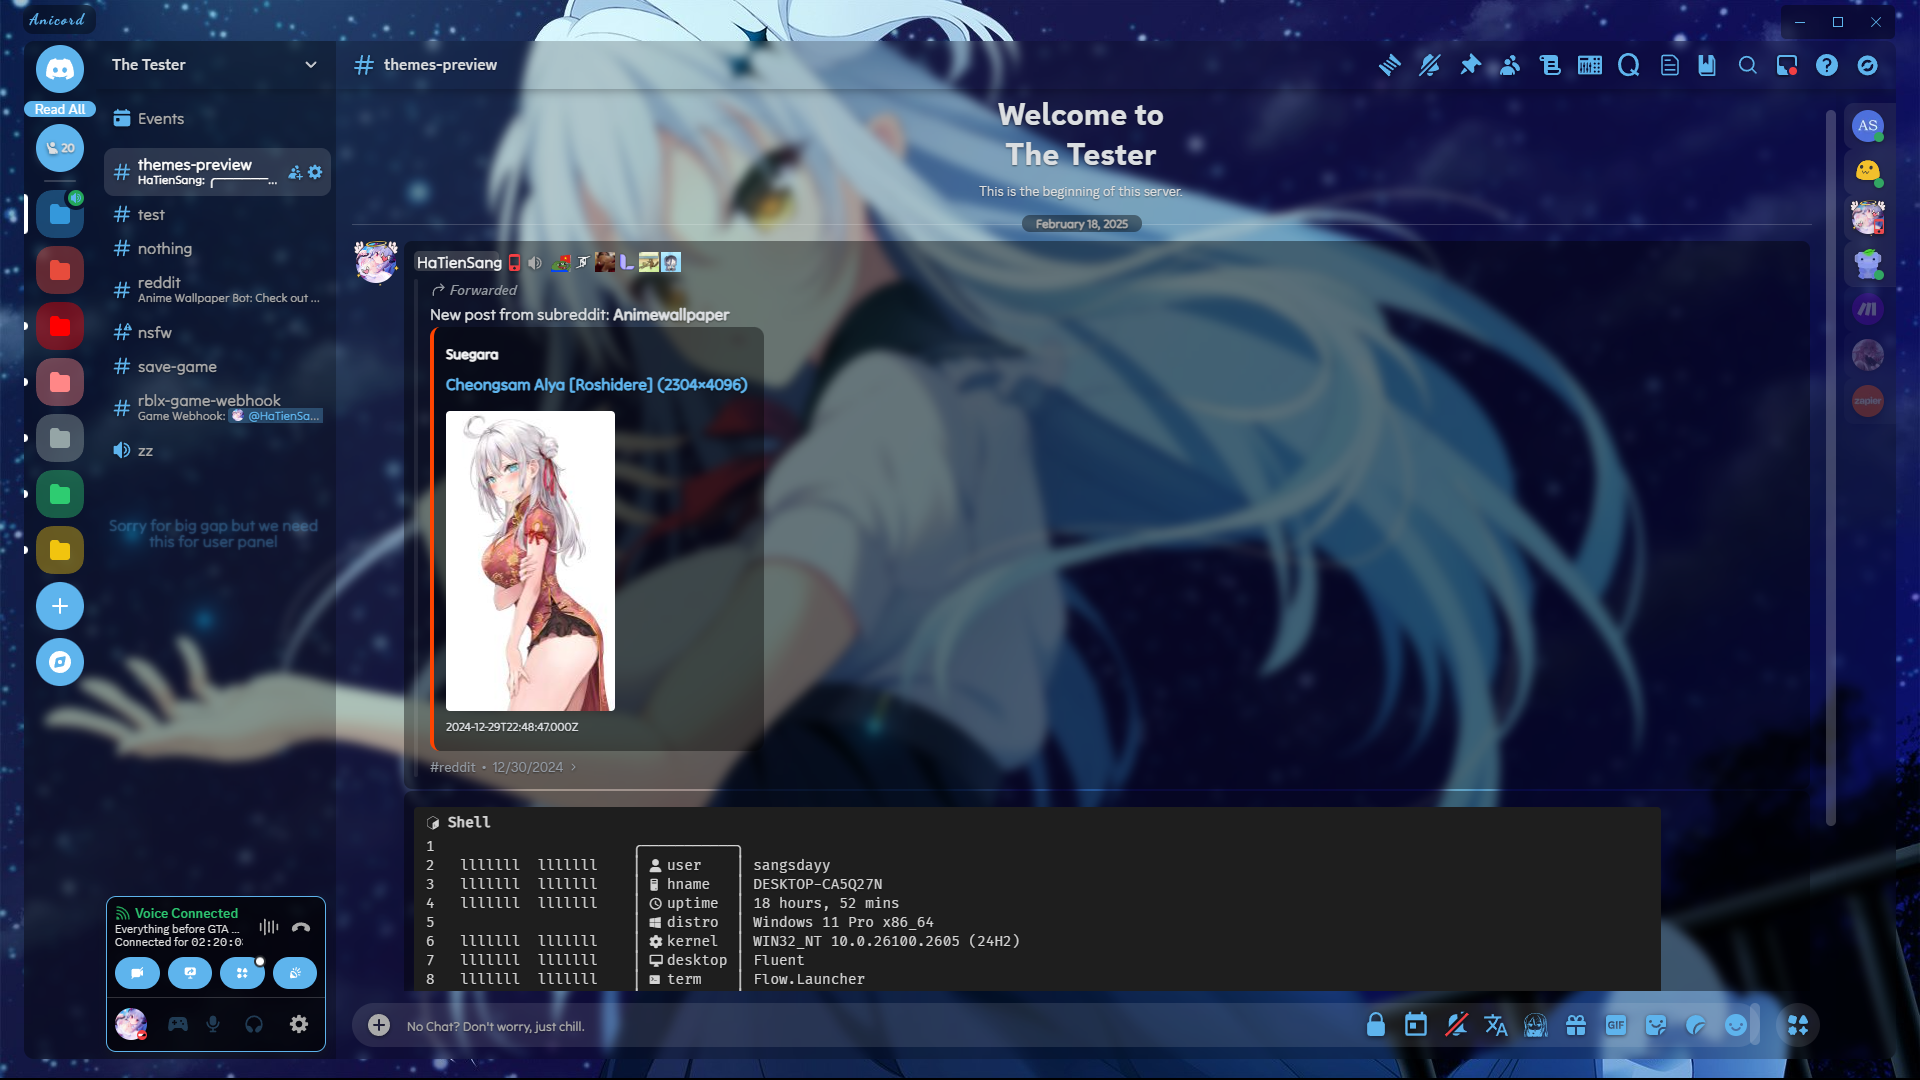
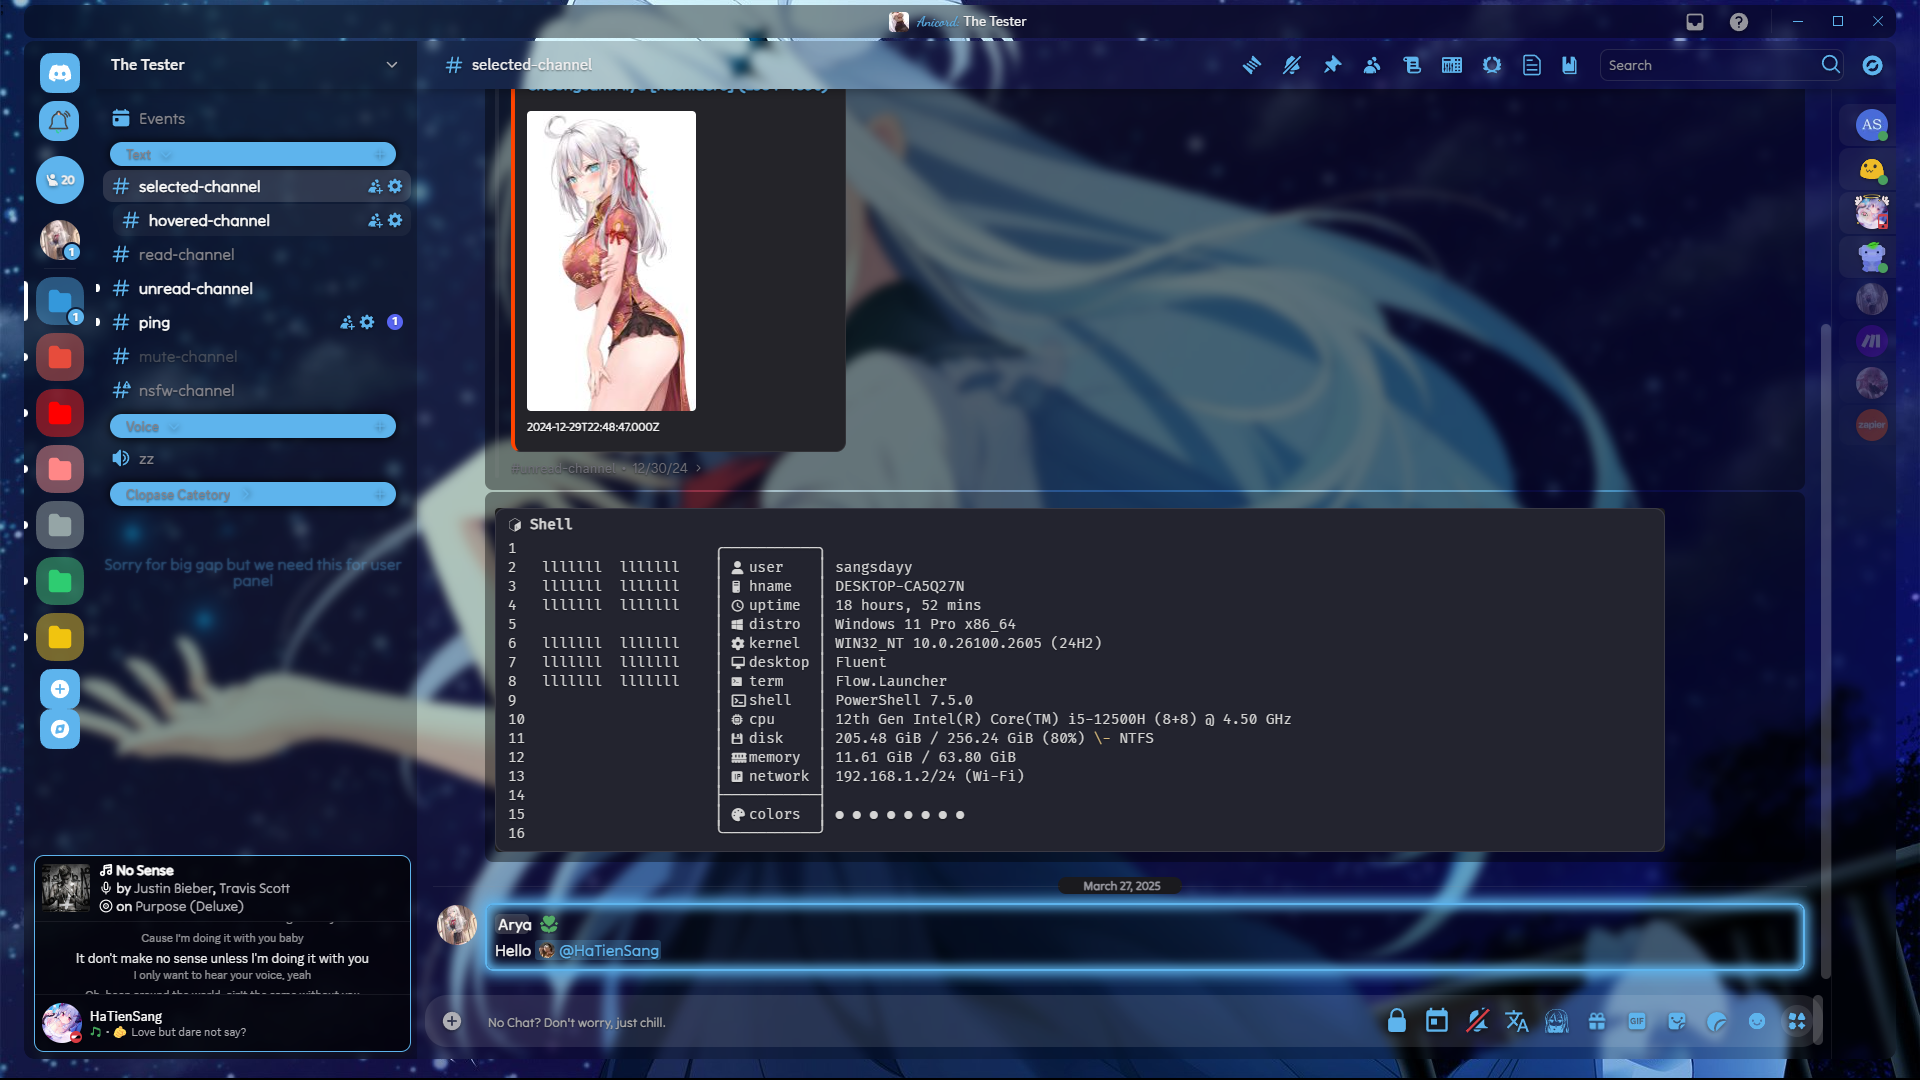
Update preview

diff --git a/themes/main.css b/themes/main.css
@@ -1210,6 +1210,9 @@ div[class="iconWrapper__6eb54"] {
 .maximized-vv2Wr0 .cover-SwJ-ck {
     border-radius: 8px 8px 0px 0px;
 }
+.panels_c48ade .vc-spotify-lyrics {
+	background: none;
+}
 /* Avatar in bottom left */
 .panels_c48ade .buttons__37e49 {
 	opacity: 0;
@@ -1406,4 +1409,11 @@ div[class="iconWrapper__6eb54"] {
 }
 .folder__48112 .expandedFolderIconWrapper__48112 {
 	transform: scale(1.5);
+}
+/*Mute Channel Fix*/
+.containerDefault_c69b6d:has(.modeMuted__2ea32) .name__2ea32 {
+	opacity: .5;
+}
+.containerDefault_c69b6d:has(.modeMuted__2ea32):hover .name__2ea32 {
+	opacity: 1;
 }
